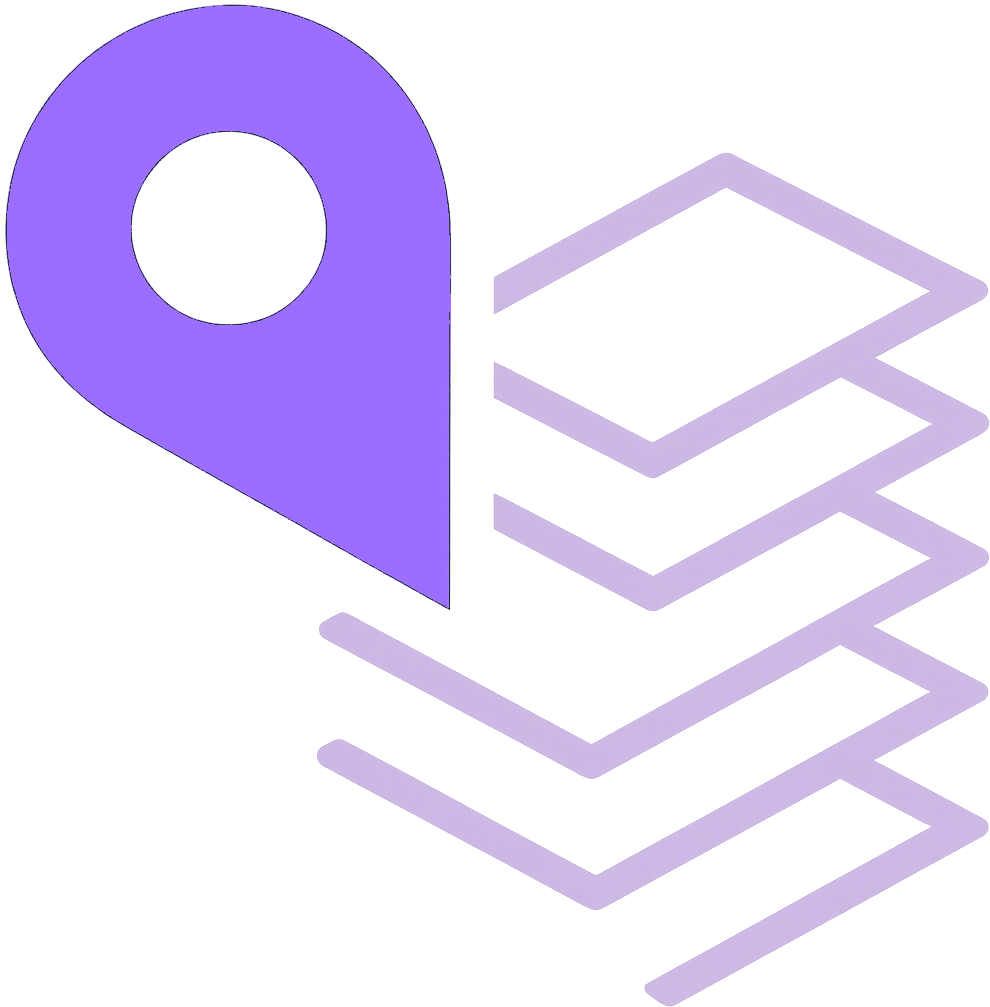
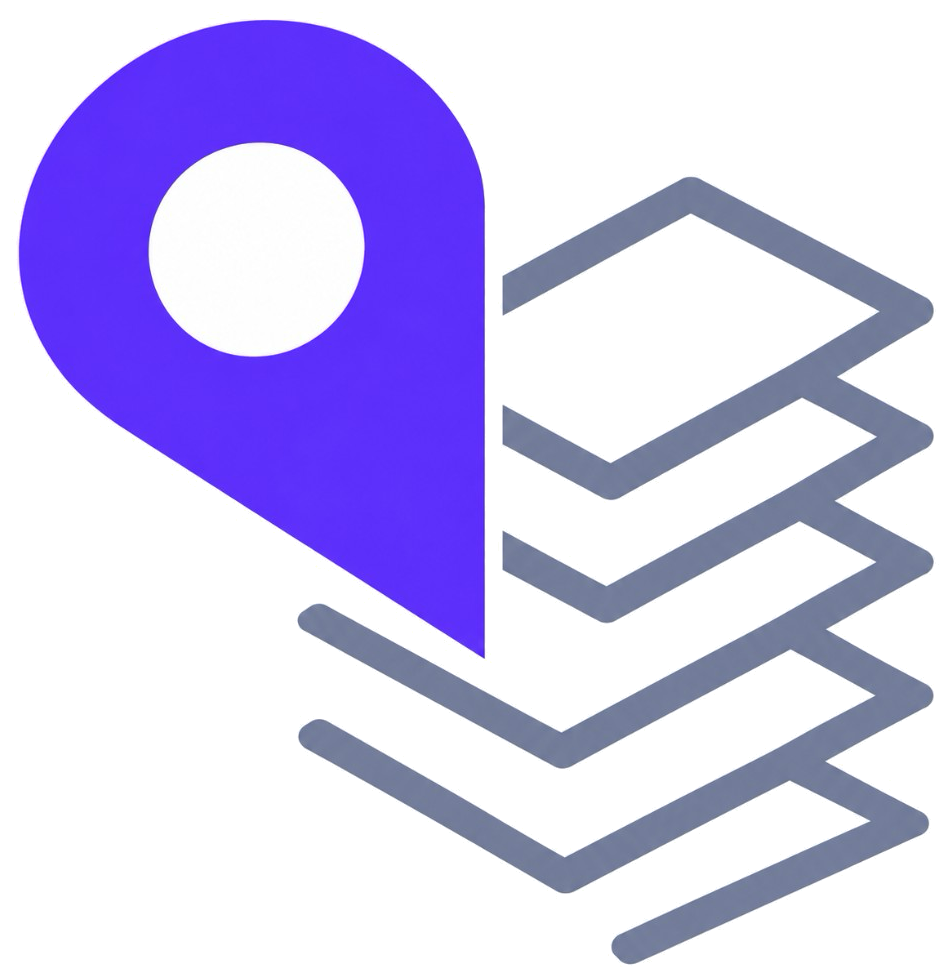
Use the product pin as the site mark.
The header and favicon now match the logo on the live RT4Access app.

diff --git a/index.html b/index.html
@@ -6,7 +6,7 @@
   <title>RT4Access — Your next opportunity is 4 people away</title>
   <meta name="description" content="Market mapping. Company maps and region maps. Your next opportunity is 4 people away.">
   <meta name="theme-color" content="#100818">
-  <link rel="icon" href="favicon.png">
+  <link rel="icon" href="favicon.png?v=2">
   <link rel="preconnect" href="https://fonts.googleapis.com">
   <link rel="preconnect" href="https://fonts.gstatic.com" crossorigin>
   <link href="https://fonts.googleapis.com/css2?family=Inter+Tight:wght@400;500;600;700&display=swap" rel="stylesheet">
@@ -16,7 +16,7 @@
   <header class="site-header">
     <div class="wrap header-inner">
       <a class="logo" href="#top">
-        <img class="logo-mark" src="assets/brand/rt4access.png" alt="">
+        <img class="logo-mark" src="assets/brand/rt4access.png?v=2" alt="">
         <span>
           <strong>RT4Access</strong>
           <small>Access engine</small>
